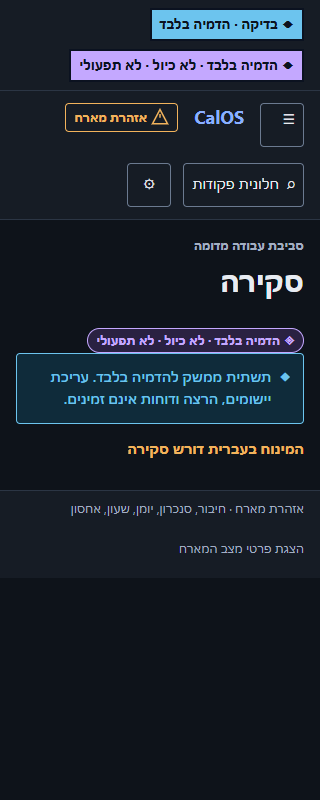
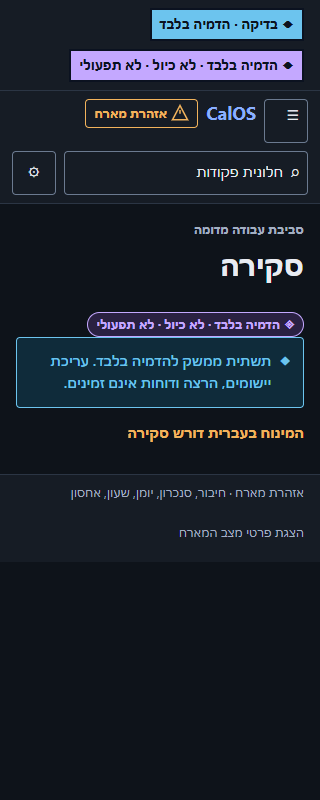
fix(frontend): close WP-1A-1e-A review blockers

diff --git a/tests/frontend/routing.e2e.spec.ts b/tests/frontend/routing.e2e.spec.ts
@@ -39,6 +39,84 @@ test("routes are bilingual, history-aware and focus the page heading", async ({
   await expect(page).toHaveTitle(/SIMULATION ONLY · טקסט טכני/u);
 });
 
+test("empty hashes canonicalize after navigation without adding history", async ({
+  page,
+}) => {
+  await page.goto("/#/technical");
+  for (const hash of ["#", "#/"]) {
+    await page.goto("/#/technical");
+    const before = await page.evaluate(() => history.length);
+    const afterAssignment = await page.evaluate((next) => {
+      location.hash = next;
+      return history.length;
+    }, hash);
+    await expect(page).toHaveURL(/#\/overview$/u);
+    expect(await page.evaluate(() => history.length)).toBe(afterAssignment);
+    await expect(page.getByRole("heading", { level: 1 })).toBeFocused();
+    if (afterAssignment > before) {
+      await page.evaluate(() => history.back());
+      await expect(page).toHaveURL(/#\/technical$/u);
+      await expect(page.getByRole("heading", { level: 1 })).toBeFocused();
+    }
+  }
+});
+
+test("Back and Forward close an open palette and focus the routed heading", async ({
+  page,
+}) => {
+  await page.goto("/#/overview");
+  await page
+    .getByRole("navigation", { name: "Primary navigation" })
+    .getByRole("link", { name: "Technical text" })
+    .click();
+  await page.keyboard.press("Control+k");
+  await expect(page.getByRole("dialog")).toBeVisible();
+  await page.evaluate(() => history.back());
+  await expect(page).toHaveURL(/#\/overview$/u);
+  await expect(page.getByRole("dialog")).toHaveCount(0);
+  await expect(
+    page.getByRole("heading", { level: 1, name: "Overview" }),
+  ).toBeFocused();
+  await expect(
+    page.getByRole("link", { name: "Overview", exact: true }),
+  ).toHaveAttribute("aria-current", "page");
+  await page.keyboard.press("Control+k");
+  await page.evaluate(() => history.forward());
+  await expect(page).toHaveURL(/#\/technical$/u);
+  await expect(page.getByRole("dialog")).toHaveCount(0);
+  await expect(
+    page.getByRole("heading", { level: 1, name: "Technical text" }),
+  ).toBeFocused();
+  await expect(page).toHaveTitle(/SIMULATION ONLY · Technical text/u);
+});
+
+test("pseudo-locales keep the mobile topbar compact with full-size controls", async ({
+  page,
+}) => {
+  await page.setViewportSize({ width: 320, height: 568 });
+  await page.goto("/#/overview");
+  for (const locale of ["en-XA", "he-XB"] as const) {
+    await page.locator(".frame-settings-button").click();
+    await page.locator("#language").selectOption(locale);
+    await page.locator(".frame-settings-button").click();
+    const geometry = await page.evaluate(() => ({
+      topbar: document.querySelector(".frame-topbar")!.getBoundingClientRect()
+        .height,
+      page: document.documentElement.scrollWidth,
+      viewport: innerWidth,
+      targets: Array.from(
+        document.querySelectorAll<HTMLElement>(
+          ".frame-command, .frame-menu-button, .frame-settings-button",
+        ),
+      ).map((element) => element.getBoundingClientRect().height),
+    }));
+    expect(geometry.topbar, locale).toBeLessThanOrEqual(180);
+    expect(geometry.page, locale).toBeLessThanOrEqual(geometry.viewport);
+    for (const height of geometry.targets)
+      expect(height).toBeGreaterThanOrEqual(44);
+  }
+});
+
 test("unknown and Test-only routes fail closed without losing protected markings", async ({
   page,
 }) => {

diff --git a/packages/ts/ui-kit/src/AppFrame.test.tsx b/packages/ts/ui-kit/src/AppFrame.test.tsx
@@ -38,6 +38,16 @@ function pressF6(init: KeyboardEventInit = {}): KeyboardEvent {
   return event;
 }
 
+function pressPalette(init: KeyboardEventInit): KeyboardEvent {
+  const event = new KeyboardEvent("keydown", {
+    bubbles: true,
+    cancelable: true,
+    ...init,
+  });
+  act(() => window.dispatchEvent(event));
+  return event;
+}
+
 /** @req FR-UI-02, P1A-AC-05: Region cycling never activates a control. */
 describe("AppFrame region keyboard model", () => {
   it("moves forward and backward through named region containers", () => {
@@ -89,5 +99,24 @@ describe("AppFrame region keyboard model", () => {
     expect(document.activeElement).toBe(query);
     expect(pressF6().defaultPrevented).toBe(false);
     expect(document.activeElement).toBe(query);
+  });
+
+  it.each([
+    { key: "ל", code: "KeyK", ctrlKey: true },
+    { key: "ל", code: "KeyK", metaKey: true },
+    { key: "k", code: "KeyV", ctrlKey: true },
+    { key: "K", code: "KeyV", metaKey: true },
+  ])("opens by physical or character layout: %j", (shortcut) => {
+    mount();
+    expect(pressPalette(shortcut).defaultPrevented).toBe(true);
+    expect(screen.getByRole("dialog")).toBeTruthy();
+  });
+
+  it("does not open without Ctrl or Cmd", () => {
+    mount();
+    expect(pressPalette({ key: "k", code: "KeyK" }).defaultPrevented).toBe(
+      false,
+    );
+    expect(screen.queryByRole("dialog")).toBeNull();
   });
 });

diff --git a/apps/web/src/router.ts b/apps/web/src/router.ts
@@ -17,8 +17,21 @@ export function parseHash(hash: string, ids: ReadonlySet<string>): ParsedRoute {
 }
 
 function subscribeHash(listener: () => void): () => void {
-  window.addEventListener("hashchange", listener);
-  return () => window.removeEventListener("hashchange", listener);
+  const onHashChange = () => {
+    canonicalizeEmptyHash();
+    listener();
+  };
+  window.addEventListener("hashchange", onHashChange);
+  return () => window.removeEventListener("hashchange", onHashChange);
+}
+
+function canonicalizeEmptyHash(): void {
+  if (["", "#", "#/"].includes(window.location.hash))
+    window.history.replaceState(
+      null,
+      "",
+      `${window.location.pathname}${window.location.search}#/overview`,
+    );
 }
 
 function currentHash(): string {
@@ -33,17 +46,7 @@ export function useHashRoute(ids: ReadonlySet<string>): ParsedRoute {
     () => "#/overview",
   );
   useEffect(() => {
-    if (
-      window.location.hash === "" ||
-      window.location.hash === "#" ||
-      window.location.hash === "#/"
-    ) {
-      window.history.replaceState(
-        null,
-        "",
-        `${window.location.pathname}${window.location.search}#/overview`,
-      );
-    }
+    canonicalizeEmptyHash();
   }, []);
   const parsed = parseHash(hash, ids);
   return parsed.kind === "canonicalize"

diff --git a/tests/frontend/data-views.e2e.spec.ts b/tests/frontend/data-views.e2e.spec.ts
@@ -268,9 +268,15 @@ test("keyboard focus clears the protected marking at short viewport heights", as
               Math.max(marking.top, focus.top),
           );
         });
-      await expect
-        .poll(overlap, { message: `${locale} ${width} Shift+Tab ${index}` })
-        .toBe(0);
+      // Native focus scrolling and ResizeObserver settle on the next paint.
+      // Assert after two bounded frames; never poll until a failure disappears.
+      await page.evaluate(
+        () =>
+          new Promise<void>((resolve) =>
+            requestAnimationFrame(() => requestAnimationFrame(() => resolve())),
+          ),
+      );
+      expect(await overlap(), `${locale} ${width} Shift+Tab ${index}`).toBe(0);
       await page.keyboard.press("Shift+Tab");
     }
     await page.keyboard.press("Tab");

diff --git a/apps/web/src/SyntheticHostStatusDemo.tsx b/apps/web/src/SyntheticHostStatusDemo.tsx
@@ -1,7 +1,6 @@
 import { createSystemI18n, type SupportedLocale } from "@calos/i18n";
 import { Card, HostSummaryChip, type HostStatusView } from "@calos/ui-kit";
 
-// CALOS_SYNTHETIC_HOST_STATUS_ONLY — never included in Production Rehearsal.
 const presets = {
   unknown: undefined,
   ok: {
@@ -68,7 +67,10 @@ export function SyntheticHostStatusDemo({
 }) {
   const t = createSystemI18n(locale).format;
   return (
-    <div className="host-demo">
+    <div
+      className="host-demo"
+      data-test-host-sentinel="CALOS_SYNTHETIC_HOST_STATUS_ONLY"
+    >
       <Card title={t("host.simulator.title")}>
         <p>{t("host.simulator.description")}</p>
         <label className="frame-tool">

diff --git a/apps/web/src/App.tsx b/apps/web/src/App.tsx
@@ -70,9 +70,14 @@ export function App({ workspace }: { workspace?: ReactNode }) {
   useEffect(() => {
     const routeId = activeId ?? "not-found";
     if (previousRoute.current !== null && previousRoute.current !== routeId) {
-      headingRef.current?.focus();
       window.scrollTo(0, 0);
       setSampleCount(2);
+      // Allow AppFrame to close an open palette and remove its inert backdrop.
+      const frame = window.requestAnimationFrame(() =>
+        headingRef.current?.focus(),
+      );
+      previousRoute.current = routeId;
+      return () => window.cancelAnimationFrame(frame);
     }
     previousRoute.current = routeId;
   }, [activeId]);

diff --git a/packages/ts/ui-kit/src/frame.css b/packages/ts/ui-kit/src/frame.css
@@ -326,18 +326,26 @@ html {
 @media (max-width: 43.75rem) {
   .frame-topbar {
     align-items: start;
+    gap: var(--space-2);
+    padding: var(--space-2) var(--space-3);
   }
   .frame-tools {
     inline-size: 100%;
     margin-inline-start: 0;
+    flex-wrap: nowrap;
+    gap: var(--space-2);
   }
   .frame-command {
     order: 0;
+    flex: 1 1 0;
+    min-inline-size: 0;
+    overflow-wrap: anywhere;
   }
   .frame-settings-button {
     display: inline-flex;
     align-items: center;
     justify-content: center;
+    flex: 0 0 var(--control-target-size);
   }
   .frame-settings-controls {
     display: none;

diff --git a/tests/frontend/i18n.e2e.spec.ts b/tests/frontend/i18n.e2e.spec.ts
@@ -452,9 +452,9 @@ test("Hebrew physical KeyK shortcut opens the command palette", async ({
       }),
     ),
   );
-  await expect(page.getByRole("dialog", { name: "חלונית פקודות" })).toHaveCount(
-    0,
-  );
+  await expect(
+    page.getByRole("dialog", { name: "חלונית פקודות" }),
+  ).toBeVisible();
 });
 
 test("the persistent live region changes only on submit, never while typing", async ({

diff --git a/packages/ts/ui-kit/src/AppFrame.tsx b/packages/ts/ui-kit/src/AppFrame.tsx
@@ -108,7 +108,10 @@ export function AppFrame({
   }, [locale]);
   useEffect(() => {
     function onKey(event: KeyboardEvent) {
-      if ((event.ctrlKey || event.metaKey) && event.code === "KeyK") {
+      if (
+        (event.ctrlKey || event.metaKey) &&
+        (event.key.toLowerCase() === "k" || event.code === "KeyK")
+      ) {
         event.preventDefault();
         setPaletteOpen(true);
       } else if (

diff --git a/docs/wp-1a-1e/EVIDENCE.md b/docs/wp-1a-1e/EVIDENCE.md
@@ -1,6 +1,6 @@
 # WP-1A-1e-A implementation evidence
 
-Status: **review candidate with explicit H-4 and N-1 exclusions**. This is a
+Status: **corrected review candidate with explicit H-4 and N-1 exclusions**. This is a
 frontend-only simulation milestone, not a host integration or an operational
 calibration capability. Claude is the independent reviewer; human GitHub
 approval and merge remain separate.
@@ -35,17 +35,51 @@ approval and merge remain separate.
 | RO-03–RO-08 | `routing.e2e.spec.ts` URL, title, native links, focus, skip-link, Back/Forward, locale, unknown routes; `App.test.tsx` | Implemented for tested routes |
 | RO-09 | Relative asset URLs, sub-path mount and bundle-gate change | **Blocked by H-4; not implemented** |
 | RO-10–RO-12 | Existing network/storage isolation browser test, route axe matrix; route-local form/data state unmounts | Implemented; real screen-reader check remains manual |
-| KB-01–KB-03, KB-05–KB-07 | `AppFrame.test.tsx`, F6 browser test, updated tab order and Hebrew `KeyK` test | Implemented; browser accelerator precedence is not proven |
+| KB-01–KB-03, KB-05–KB-07 | `AppFrame.test.tsx`, F6 browser test, restored Hebrew `KeyK` and character-`k` assertions | Implemented; browser accelerator precedence is not proven |
 | KB-04 | Real Edge normal/app mode and Chrome manual check | **Not run** |
 | PS-01–PS-06 | `search.test.ts` vectors and seeded idempotence test; Hebrew palette browser test | Implemented, with punctuation-vector conflict below |
-| SR-01–SR-05, SR-08 | 60 route screenshots, per-route 44 px shell-target and horizontal-overflow assertions, 12 host screenshots, existing 320/768/1440 and pseudo-locale tests, focus overlap regression | Locally tested; Rehearsal short-page geometry not run |
+| SR-01–SR-05, SR-08 | 60 route screenshots, per-route 44 px shell-target and horizontal-overflow assertions, 12 host screenshots, 320/768/1440 and pseudo-locale tests, bounded-frame focus overlap regression | Locally tested; Rehearsal short-page geometry not run |
 | SR-06 | Status-bar height CSS variable and responsive sticky rule | Implemented; focused footer-overlap sweep not run |
 | HS-01, HS-03–HS-04 | UI-side types; fake and unavailable injected ports; unit severity table and browser preset checks | Fake/local only; no real host adapter |
 | HS-05–HS-08 | Text + SVG status summary, localized details, one polite region, mismatch alert, fixed fake host time; host browser screenshots | Partial: no untrusted normalization/identifier intake |
-| HS-02, HS-09–HS-11 | Defensive normalizer, disabled-with-reason action, complete sentinel gate and hostile-input fuzz | **Deferred with T4 real intake pending N-1 / PR #27 and H-4** |
+| HS-02, HS-09–HS-11 | Runtime sentinel and bundle presence/exclusion gate implemented; ASCII identifier validation, defensive normalizer, disabled-with-reason action and hostile-input fuzz remain absent | **Partial T4; separate reviewed work required. PR #27 merged a proposal, not implementation** |
 | AB-01, AB-02, AB-04–AB-07 | No new dependencies/lockfile; 90 negative boundary probes; Test/Rehearsal static builds; diff review | Implemented within scope |
 | AB-08 | 10 additive negative probes for `navigator.onLine`, `history.pushState`, clock reads and `ui-kit` router access | Passed locally |
-| AB-09, AB-10 | Capability Matrix note; manual three-sentinel Rehearsal scan | Full host-sentinel bundle-gate edit awaits H-4 |
+| AB-09, AB-10 | Capability Matrix note; automated positive Test and negative Rehearsal checks for all three runtime sentinels | Implemented; relative-URL gate remains H-4 blocked |
+
+## Independent-review correction record
+
+The [PR #28 independent review](https://github.com/avihafif/calibration-os/pull/28#issuecomment-6678865755)
+was a conditional NO-GO at `f018993`. The unmerged [PR #29 errata](https://github.com/avihafif/calibration-os/pull/29)
+informed the corrections below; this PR does not ratify that proposal.
+
+| Finding | Correction | Regression evidence |
+|---|---|---|
+| C-1 | Restored Ctrl/Cmd+K matching by character `k` **or** physical `KeyK`. | `AppFrame.test.tsx` covers Hebrew `ל/KeyK`, Dvorak-style `k/KeyV`, Ctrl/Cmd and no-modifier; `i18n.e2e.spec.ts` restores the visible-dialog assertion for `k/KeyV`. |
+| C-2 | The synthetic host component now renders `CALOS_SYNTHETIC_HOST_STATUS_ONLY` as a DOM attribute. The existing bundle gate now requires it in Test and rejects it in Rehearsal, including a negative canary. | Both `VITE_ENVIRONMENT_KIND` builds passed `tools/check_frontend_bundle.mjs`; compiled JS string scan found all three Test sentinels in Test and none in Rehearsal. No relative-URL gate change. |
+| C-3 | Replaced the five-second `expect.poll` with a fixed two-animation-frame settlement, followed by the original exact zero-overlap assertion for every focus step. | `data-views.e2e.spec.ts` focus case passed 10 consecutive Chromium repetitions (all five locale/width combinations per run), then passed in the full browser suite. See timing investigation below. |
+| C-4 | Canonicalizes empty hashes on every `hashchange` with `history.replaceState`; defers route-heading focus one animation frame so AppFrame can close the palette and remove `inert` first. | `routing.e2e.spec.ts` tests `#` and `#/`, history length, Back, palette closure, focused headings, title and active navigation. |
+| en-XA mobile | Mobile topbar retains the 44 px menu/settings targets and fits the command button beside settings through wrapped text and compact gaps. | `routing.e2e.spec.ts` checks en-XA/he-XB at 320×568: topbar ≤180 px, no horizontal page overflow, controls ≥44 px. Diagnostic measurement on en-XA was 157 px after the change versus 237 px before. |
+
+**Focus timing investigation.** The earlier assertion sampled immediately after a
+keyboard event, while Chromium's native focus scrolling and the sticky
+marking's ResizeObserver offset can settle across paint frames. The review
+reported transient 47–52 px overlaps and zero in stable frames; a local
+20-run instrumentation probe did not reproduce the transient overlap. The
+replacement waits exactly two `requestAnimationFrame` callbacks and then
+asserts **zero**. There is no retry or five-second tolerance. Ten repeated
+browser runs passed. The precise scheduling trigger on Claude's machine
+remains unproven; a fresh independent run should test it there.
+
+**Changes to existing tests.** This correction changes the existing
+`i18n.e2e.spec.ts` KeyV assertion back to `toBeVisible()` and changes only
+the timing before each zero-overlap assertion in the existing
+`data-views.e2e.spec.ts` focus test. No other existing-test assertion was
+removed, inverted or relaxed. The earlier PR implementation changed route
+entry URLs to `/#/data` and `/#/forms`, introduced `selectDisplay` for mobile
+settings, and adjusted form tab order for the new shell; those remain in the
+PR and are not represented as new baseline behavior. The new routing and
+unit tests are additive.
 
 All new Hebrew system messages remain `needs_review`. The router has no
 storage, loaders, service worker or runtime network path. The fake port is an
@@ -60,17 +94,18 @@ instrument or metrology code changed.
 | `pnpm test:ts-boundary` | 90 negative probes passed |
 | `pnpm test:design-tokens` | 24 contrast pairs passed |
 | `pnpm test:schema-vectors` | 3 digests, 3 manifest groups, 2 safe-grammar groups passed |
-| `pnpm test:frontend` | 9 files, 97 tests passed; 0 failed |
-| `pnpm build:web` + existing bundle gate, Test | Passed, one JS script |
-| `pnpm build:web` + existing bundle gate, Production Rehearsal | Passed, one JS script; manual string scan confirmed form, data and host sentinels absent |
-| Fresh Test `pnpm build:web` then `pnpm test:e2e` | 24/24 passed against the final source, including 60 route geometry/screenshot cases and 12 host screenshots; 0 failed |
+| `pnpm test:frontend` | 9 files, 102 tests passed; 0 failed |
+| `pnpm build:web` + bundle gate, Test | Passed, one JS script; all three runtime sentinels present |
+| `pnpm build:web` + bundle gate, Production Rehearsal | Passed, one JS script; all three runtime sentinels absent |
+| Fresh Test `pnpm build:web` then `pnpm test:e2e` | 27/27 passed, including the new routing, focus and pseudo-locale cases; 0 failed |
+| `pnpm exec playwright test tests/frontend/data-views.e2e.spec.ts --grep 'keyboard focus clears' --repeat-each=10` | 10/10 passed |
 | `python tools/check.py` via existing Python 3.12.16 venv and current-checkout `PYTHONPATH` | 35 core + 14 security passed; no skips |
 | Ruff check and format | Passed; 39 Python files formatted |
 | mypy strict | 18 source files passed |
 | import-linter | Four contracts kept, none broken |
 | `pnpm audit` | No known vulnerabilities |
 | CycloneDX SBOM + licence/OSV checker | 228 components, licences approved, zero OSV advisories |
-| `pnpm format:ts:check` on Windows | Fails on 30 **untouched baseline** files due CRLF; changed-file Prettier check passed |
+| `pnpm format:ts:check` on Windows | Fails on 30 **untouched baseline** files due CRLF; all changed-file Prettier checks passed |
 
 The Python executable came from the existing PR #25 worktree's locked virtual
 environment because this fresh worktree had no `uv` binary. `PYTHONPATH` was
@@ -99,11 +134,16 @@ browser-chrome F6 behavior still need manual checks.
    `apps/web/vite.config.mjs`, `apps/web/index.html` and the strictly stronger
    `tools/check_frontend_bundle.mjs` check. The bundle gate was **not edited**.
    Until then this build is not proven to mount under a sub-path.
-2. **N-1 / PR #27.** Untrusted host identifier validation and
-   `normalizeHostStatus(unknown)` remain unimplemented. The host view accepts
-   only the local fake and the unavailable port; there is no real adapter.
-   T4's hostile-input, disabled-action and complete sentinel-gate criteria
-   require a separate reviewed completion after N-1 and H-4.
+2. **T4 HostStatus follow-up.** PR #27 merged the N-1 *proposal*, not its
+   implementation. The accepted [Errata 1](ERRATA.md) clarify that ASCII
+   identifier validation (HS-02), unknown-by-default behaviour and HS-09
+   can proceed in a separate reviewed PR without waiting for N-1 or H-4.
+   They are **not implemented here**. A `normalizeHostStatus(unknown)` intake,
+   disabled-with-reason action and hostile-input fuzz remain absent; the host
+   view accepts only the local fake and unavailable port. Displaying
+   non-ASCII technical text still depends on N-1 implementation. The runtime
+   sentinel and Test/Rehearsal gate are complete; H-4 still blocks relative
+   URL work.
 3. **Specification search-vector inconsistency.** PS-01 mandates NFKD folding
    and PS-02 mandates normalized `includes`, which cannot match query
    `בדיקה v1` across the literal `)` in `CalOS (בדיקה) v1.2` from the
